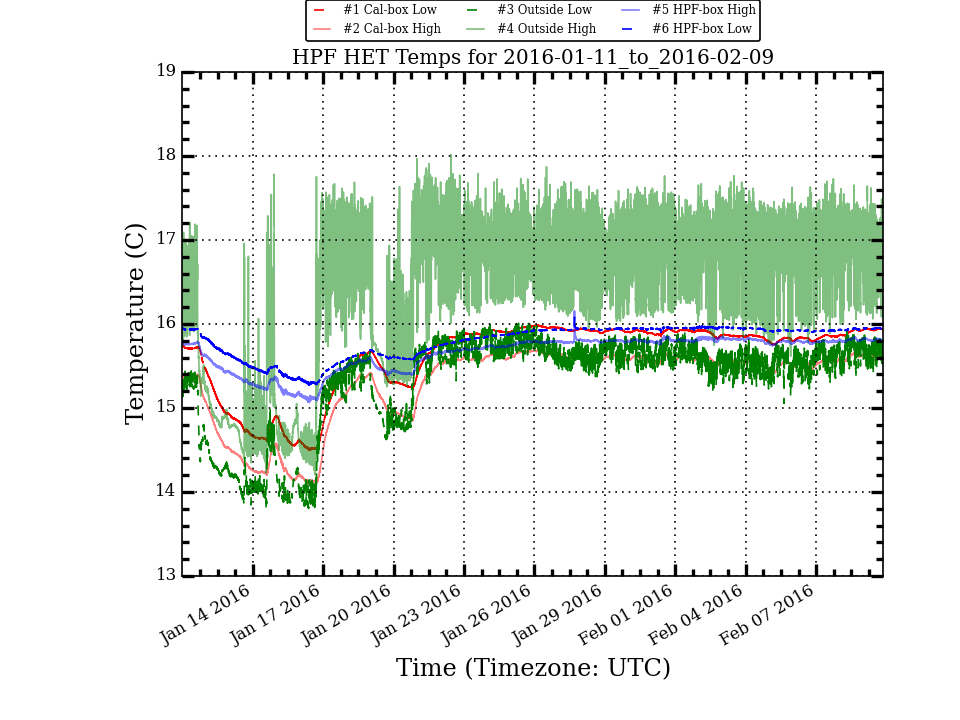
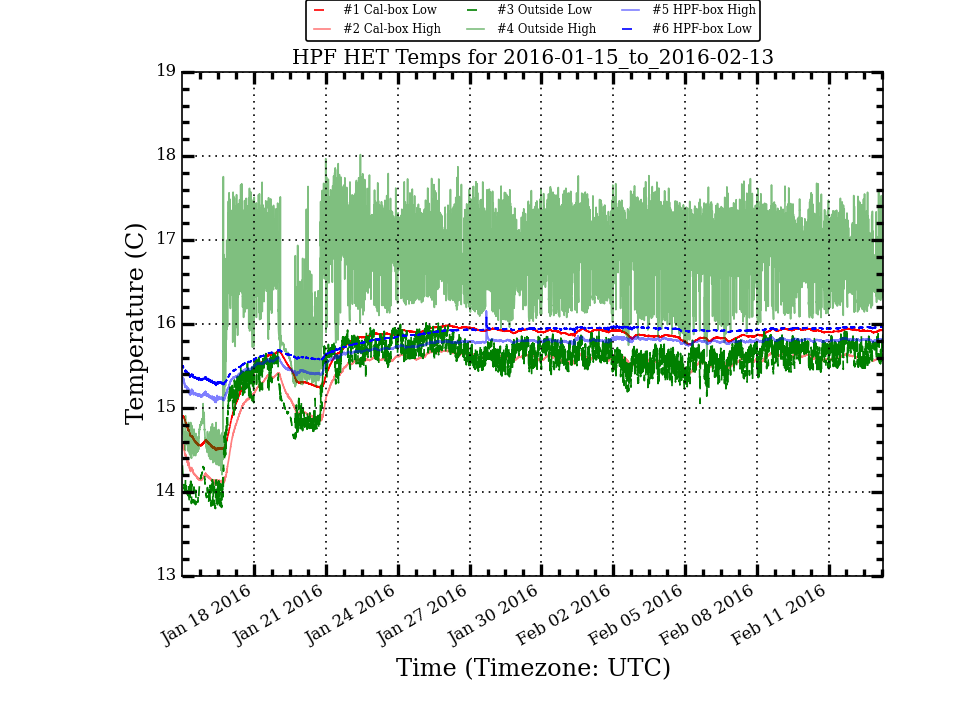
Update HPF Temp Plots

diff --git a/research/hpf_temps/plots/LakeShoreLogTotal_week_stats.html b/research/hpf_temps/plots/LakeShoreLogTotal_week_stats.html
@@ -10,56 +10,56 @@
  </TR>
  <TR>
   <TD>Cal_Low</TD>
-  <TD>15.858</TD>
-  <TD>0.047</TD>
-  <TD>15.854</TD>
+  <TD>15.909</TD>
+  <TD>0.031</TD>
+  <TD>15.919</TD>
   <TD>15.957</TD>
-  <TD>15.754</TD>
-  <TD>0.203</TD>
+  <TD>15.811</TD>
+  <TD>0.146</TD>
  </TR>
  <TR>
   <TD>Cal_High</TD>
-  <TD>15.557</TD>
-  <TD>0.054</TD>
-  <TD>15.557</TD>
+  <TD>15.601</TD>
+  <TD>0.030</TD>
+  <TD>15.600</TD>
   <TD>15.672</TD>
-  <TD>15.415</TD>
-  <TD>0.257</TD>
+  <TD>15.514</TD>
+  <TD>0.158</TD>
  </TR>
  <TR>
   <TD>Out_Low</TD>
-  <TD>15.572</TD>
-  <TD>0.135</TD>
-  <TD>15.580</TD>
-  <TD>15.911</TD>
-  <TD>15.055</TD>
-  <TD>0.856</TD>
+  <TD>15.657</TD>
+  <TD>0.110</TD>
+  <TD>15.677</TD>
+  <TD>15.914</TD>
+  <TD>15.308</TD>
+  <TD>0.606</TD>
  </TR>
  <TR>
   <TD>Out_High</TD>
-  <TD>16.811</TD>
-  <TD>0.413</TD>
-  <TD>16.926</TD>
-  <TD>17.766</TD>
-  <TD>15.617</TD>
-  <TD>2.149</TD>
+  <TD>16.744</TD>
+  <TD>0.357</TD>
+  <TD>16.783</TD>
+  <TD>17.730</TD>
+  <TD>15.884</TD>
+  <TD>1.846</TD>
  </TR>
  <TR>
   <TD>HPF_High</TD>
-  <TD>15.801</TD>
-  <TD>0.020</TD>
-  <TD>15.801</TD>
+  <TD>15.807</TD>
+  <TD>0.012</TD>
+  <TD>15.807</TD>
   <TD>15.846</TD>
-  <TD>15.741</TD>
-  <TD>0.105</TD>
+  <TD>15.778</TD>
+  <TD>0.068</TD>
  </TR>
  <TR>
   <TD>HPF_Low</TD>
-  <TD>15.934</TD>
-  <TD>0.015</TD>
-  <TD>15.931</TD>
-  <TD>15.968</TD>
-  <TD>15.900</TD>
-  <TD>0.068</TD>
+  <TD>15.945</TD>
+  <TD>0.013</TD>
+  <TD>15.948</TD>
+  <TD>15.967</TD>
+  <TD>15.910</TD>
+  <TD>0.057</TD>
  </TR>
 </TABLE>

diff --git a/research/hpf_temps/plots/LakeShoreLogTotal_month_stats.html b/research/hpf_temps/plots/LakeShoreLogTotal_month_stats.html
@@ -10,54 +10,54 @@
  </TR>
  <TR>
   <TD>Cal_Low</TD>
-  <TD>15.620</TD>
-  <TD>0.436</TD>
-  <TD>15.852</TD>
+  <TD>15.730</TD>
+  <TD>0.361</TD>
+  <TD>15.882</TD>
   <TD>15.984</TD>
   <TD>14.496</TD>
   <TD>1.488</TD>
  </TR>
  <TR>
   <TD>Cal_High</TD>
-  <TD>15.301</TD>
-  <TD>0.467</TD>
-  <TD>15.554</TD>
+  <TD>15.419</TD>
+  <TD>0.380</TD>
+  <TD>15.576</TD>
   <TD>15.688</TD>
   <TD>14.080</TD>
   <TD>1.608</TD>
  </TR>
  <TR>
   <TD>Out_Low</TD>
-  <TD>15.311</TD>
-  <TD>0.573</TD>
-  <TD>15.551</TD>
+  <TD>15.470</TD>
+  <TD>0.441</TD>
+  <TD>15.596</TD>
   <TD>16.014</TD>
-  <TD>13.793</TD>
-  <TD>2.221</TD>
+  <TD>13.803</TD>
+  <TD>2.211</TD>
  </TR>
  <TR>
   <TD>Out_High</TD>
-  <TD>16.385</TD>
-  <TD>0.847</TD>
-  <TD>16.639</TD>
+  <TD>16.578</TD>
+  <TD>0.675</TD>
+  <TD>16.746</TD>
   <TD>18.017</TD>
   <TD>14.206</TD>
   <TD>3.811</TD>
  </TR>
  <TR>
   <TD>HPF_High</TD>
-  <TD>15.653</TD>
-  <TD>0.206</TD>
-  <TD>15.773</TD>
+  <TD>15.696</TD>
+  <TD>0.187</TD>
+  <TD>15.790</TD>
   <TD>16.156</TD>
   <TD>15.065</TD>
   <TD>1.091</TD>
  </TR>
  <TR>
   <TD>HPF_Low</TD>
-  <TD>15.795</TD>
-  <TD>0.194</TD>
-  <TD>15.918</TD>
+  <TD>15.832</TD>
+  <TD>0.182</TD>
+  <TD>15.927</TD>
   <TD>16.080</TD>
   <TD>15.269</TD>
   <TD>0.811</TD>
